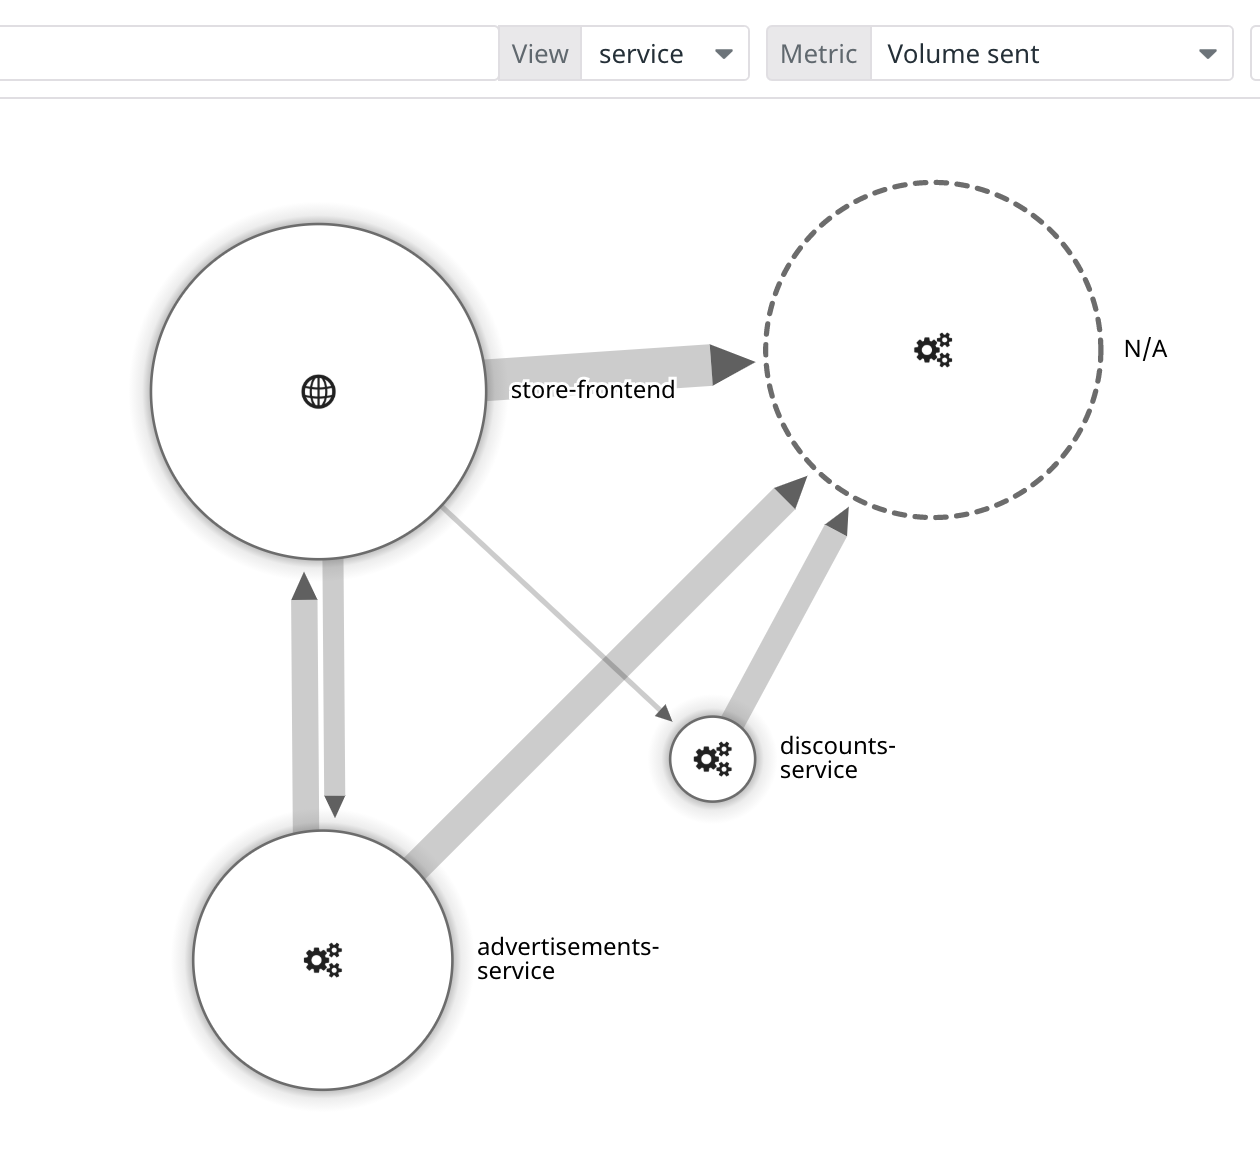
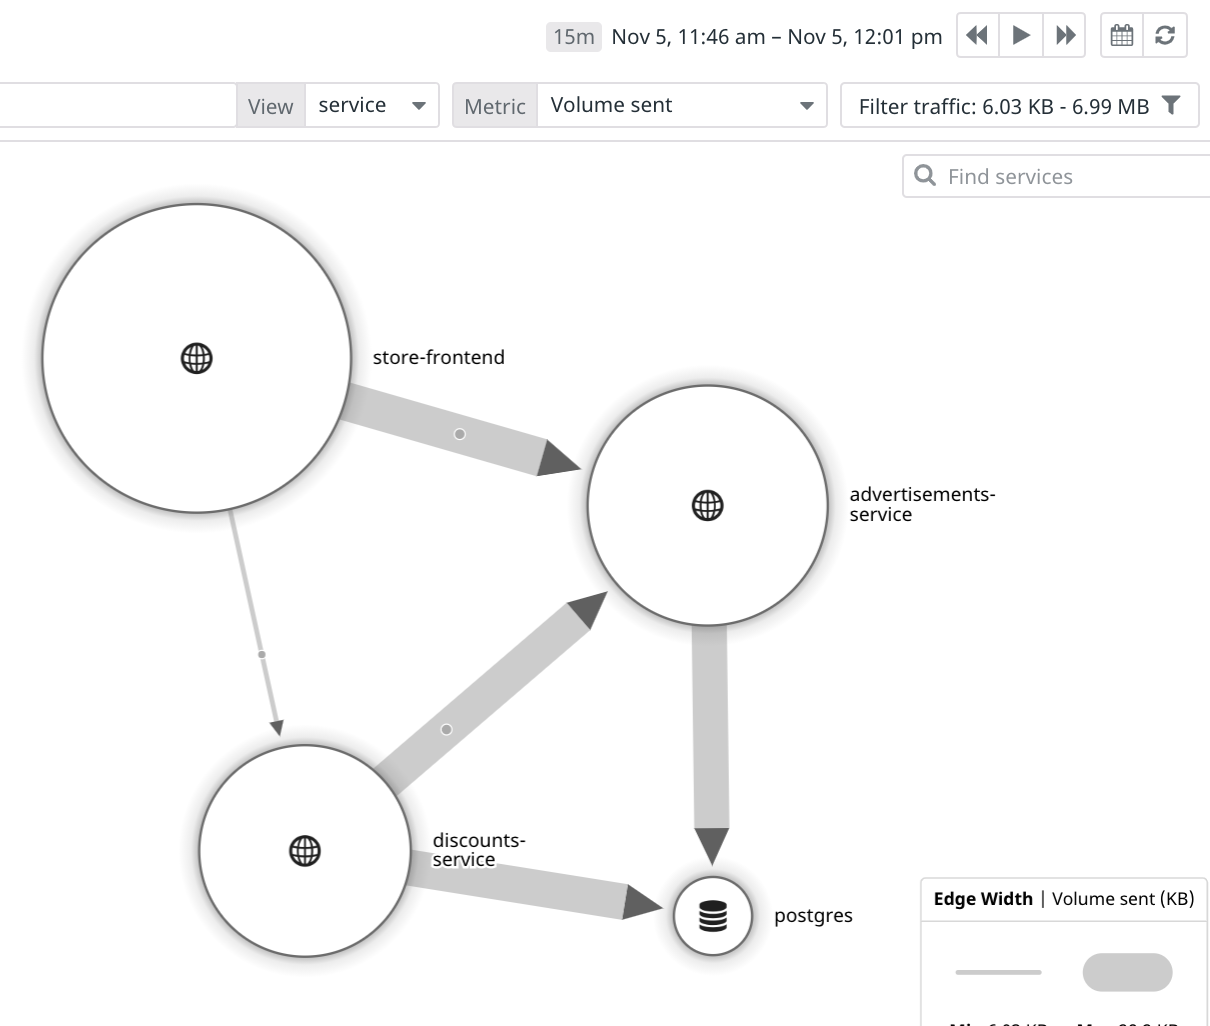
Another commit

diff --git a/dd101-npm/step2.md b/dd101-npm/step2.md
@@ -13,9 +13,9 @@ Since you started this lab, a background process has been automatically making r
 # Observe the Network Metrics
 Log in the the [Datadog App](https://app.datadoghq.com/) using the same email address you are using for the Learning Center.
 
-Before you dig in to the network metrics, Navigate to **APM > Traces** to ensure that the Datadog agent is sending data to Datadog. You should see a steady stream of traces resulting from the traffic generated by the lab background process.
+Before you dig in to the network metrics, Navigate to **APM > Traces** to ensure that the Datadog agent is sending data to Datadog. Make sure that the search field is filtering `Env:dd101-npm`. You should see a steady stream of traces resulting from the traffic generated by the lab background process.
 
-If you do not see traces from Storedog services such as `store-frontend`, `flask`, or `postgres`, make sure you're in the correct organization. You can choose your organization by hovering over the **Account** menu item at the end of the Global Nav. Your Learning center organization will look like &lt;First name&gt; &lt;Last name&gt;:LMS:&lt;last 3 characters of your API key&gt;. For example: Cameron Howe:LMS.2ab.
+If you do not see traces from Storedog services such as `store-frontend`, `advertisements-service`, or `postgres`, make sure you're in the correct organization. You can choose your organization by hovering over the **Account** menu item at the end of the Global Nav. Your Learning center organization will look like &lt;First name&gt; &lt;Last name&gt;:LMS:&lt;last 3 characters of your API key&gt;. For example: Cameron Howe:LMS.2ab.
 
 ## Network Page
 Navigate to **Infrastructure > Network** using the Global Nav. You will probably see the Discover Network Performance Monitoring introductory screen. This page is displayed until the first NPM data is processed by Datadog, which can take up to 15 minutes. Note that *you should not refresh this page* to see if NPM data has become available; click on the **Infrastructure > Network** menu item to check for updates.
@@ -26,11 +26,13 @@ Once Datadog has processed NPM data, this page will display network *flows* that
 
 ![Screenshot of the network flows table on the network page](./assets/network_flows_table.png)
 
-For the Storedog application, you should see four flows between `advertisements-service`, `store-frontend`, and `discounts-service`. Each flow represents the network communication among these services where one is the Source, and another is the Destination. 
+For the Storedog application, you should see many flows between `advertisements-service`, `store-frontend`, `discounts-service`, and `postgres`. Each flow represents the network communication among these services where one is the Source, and another is the Destination. 
 
-To see your table formatted like the above screenshot, make sure that the **Group by** fields at the top of the page are set to `service`. Then toggle the appropriate columns using the **Customize** menu above the network flows table: 
+To see your table formatted like the above screenshot, make sure that the **Source** and **Destination** fields at the top of the page are filtering by `Env:dd101-npm`, and that the **Group by** fields are set to `service`. Then toggle the appropriate columns using the **Customize** menu above the network flows table: 
 
 ![Screenshot of the Customize menu options for the network flows table on the network page](./assets/network_flows_table_customize.png)
+
+*Note: If `service` is not an option in the **Group by** fields, give Datadog some more time to process networking data.*
 
 You may see flows where the source and destination are **N/A**. This represents traffic to or from an "untagged" resource, which is a client or server that is not running the Datadog Agent. In this case, this includes the lab background process generating traffic on the Docker host and your Storedog browser activity routed through the lab network. You can hide or display untagged traffic using the **Show N/A (Untagged traffic)** toggle in the **Filter Traffic** settings menu.
 
@@ -51,7 +53,7 @@ To visualize network flows, navigate to **Infrastructure > Network Map**. Select
 
 This is a diagram of the same flows on the network page, where each service's size is scaled relative to the volume of network traffic it has sent. The connections between each service are also scaled to indicate what proportion of that volume was sent to each destination. Hover over each service to see more detailed network information.
 
-Here's what the network map for the Storedog application might look like:
+Here's what the network map for the Storedog application might look like, with untagged (N/A) traffic hidden:
 
 ![Screenshot the network map](./assets/network_map.png)
 

diff --git a/dd101-npm/step3.md b/dd101-npm/step3.md
@@ -14,7 +14,7 @@ The numbers of **Retransmits** by service are displayed in the flow table, along
 
 ![Screenshot of Customize panel for the Network flows table](./assets/network_customize_columns.png)
 
-Click the **RTT** column heading of the flow table to sort by round-trip time in descending order. Now do the same with the **Retransmits** column. You should see that the largest numbers occur between the `store-frontend` and `discounts-service` services.
+Click the **RTT** column heading of the flow table to sort by round-trip time in descending order. Now do the same with the **Retransmits** column. You should see that most of the largest numbers involve the `discounts-service`.
 
 NPM links to Application Performance Monitoring (APM) so you can look at the code traces associated with network flows. This is useful to dig deeper into applications when you're investigating interesting network metrics.  
 
@@ -26,7 +26,7 @@ Scroll through the traces and look for errors or unusually long **Duration** val
 
 ![Screenshot of a flame graph for a very slow trace Home controller trace](./assets/apm_discounts_span.png)
 
-Looking at these spans, it's clear that the Storedog `Spree:HomeController#index` spent a shocking amount of time making  a `GET` request to the `discounts` service. Because there are no other spans during this period, it's fair to conclude that the request was delayed by network problems.
+Looking at these spans, it's clear that the Storedog `Spree:HomeController#index` spent a shocking amount of time making  a `GET` request to the `discounts` service. Because there are no application errors or other spans during this period, it's fair to conclude that the request was delayed by something external to the application, like the network. 
 
 Spend some time inspecting flows on the network page and drilling down into APM traces to find other slow traces.
 
